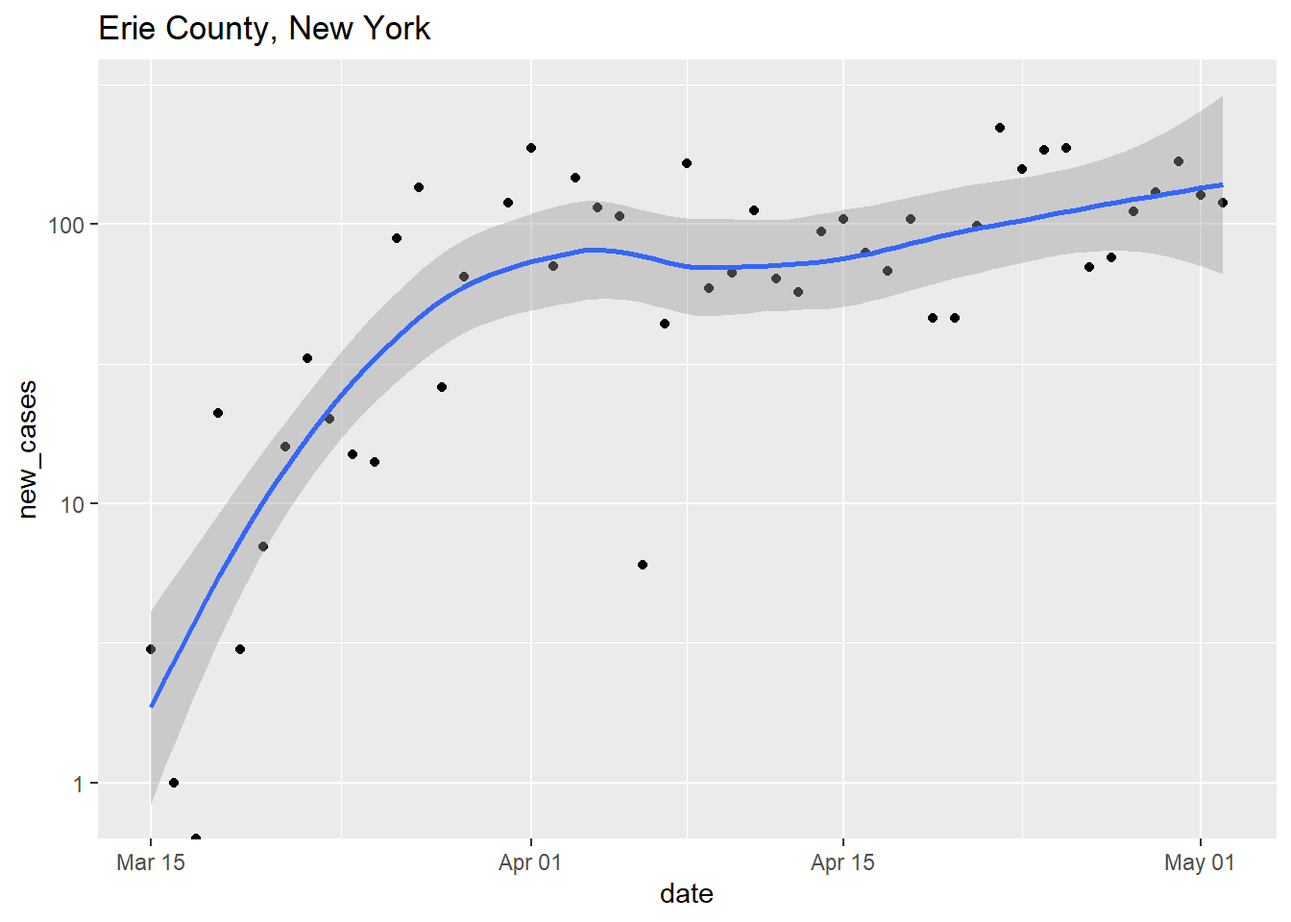
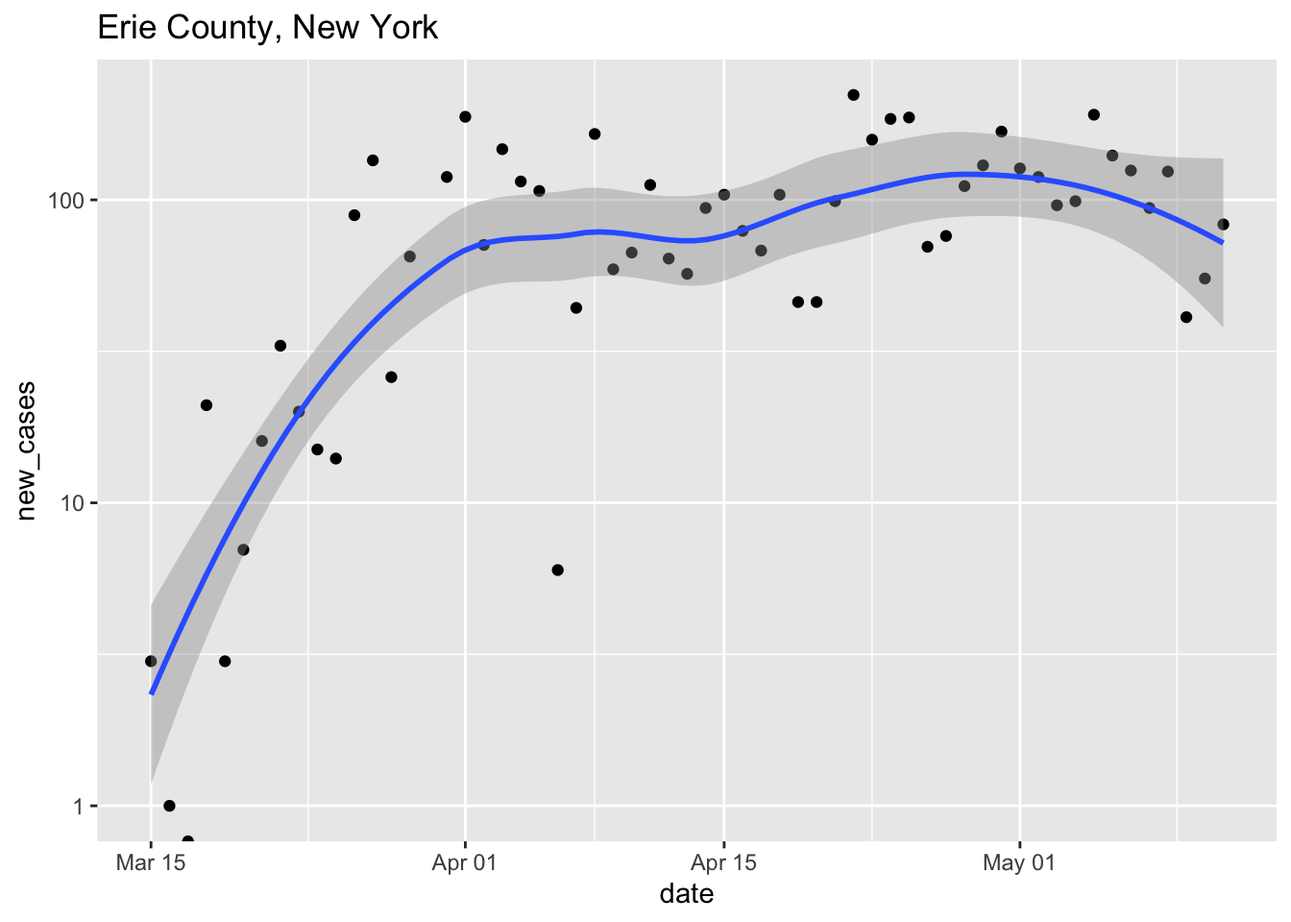
update build products

diff --git a/docs/index.html b/docs/index.html
@@ -5,30 +5,30 @@
   <meta charset="utf-8" />
   <meta http-equiv="X-UA-Compatible" content="IE=edge" />
   <title>40 Days and 40 Nights</title>
-  <meta name="description" content="<p>An ad hoc course to learn R for bioinformatics, using the
-COVID-19 epidemic as an excuse.</p>" />
+  <meta name="description" content="An ad hoc course to learn R for bioinformatics, using the
+COVID-19 epidemic as an excuse." />
   <meta name="generator" content="bookdown 0.18 and GitBook 2.6.7" />
 
   <meta property="og:title" content="40 Days and 40 Nights" />
   <meta property="og:type" content="book" />
   
   
-  <meta property="og:description" content="<p>An ad hoc course to learn R for bioinformatics, using the
-COVID-19 epidemic as an excuse.</p>" />
+  <meta property="og:description" content="An ad hoc course to learn R for bioinformatics, using the
+COVID-19 epidemic as an excuse." />
   
 
   <meta name="twitter:card" content="summary" />
   <meta name="twitter:title" content="40 Days and 40 Nights" />
   
-  <meta name="twitter:description" content="<p>An ad hoc course to learn R for bioinformatics, using the
-COVID-19 epidemic as an excuse.</p>" />
+  <meta name="twitter:description" content="An ad hoc course to learn R for bioinformatics, using the
+COVID-19 epidemic as an excuse." />
   
 
 <meta name="author" content="Martin Morgan" />
 <meta name="author" content="L. Shawn Matott" />
 
 
-<meta name="date" content="2020-05-04" />
+<meta name="date" content="2020-05-14" />
 
   <meta name="viewport" content="width=device-width, initial-scale=1" />
   <meta name="apple-mobile-web-app-capable" content="yes" />
@@ -73,7 +73,7 @@ a.sourceLine { text-indent: -1em; padding-left: 1em; }
 pre.numberSource a.sourceLine
   { position: relative; left: -4em; }
 pre.numberSource a.sourceLine::before
-  { content: attr(title);
+  { content: attr(data-line-number);
     position: relative; left: -1em; text-align: right; vertical-align: baseline;
     border: none; pointer-events: all; display: inline-block;
     -webkit-touch-callout: none; -webkit-user-select: none;
@@ -193,10 +193,10 @@ code span.wa { color: #60a0b0; font-weight: bold; font-style: italic; } /* Warni
 <li class="chapter" data-level="" data-path="three.html"><a href="three.html#packages-20-minutes"><i class="fa fa-check"></i>Packages (20 minutes)</a></li>
 <li class="chapter" data-level="" data-path="three.html"><a href="three.html#the-tidyverse-of-packages-20-minutes"><i class="fa fa-check"></i>The ‘tidyverse’ of packages (20 minutes)</a></li>
 </ul></li>
-<li class="chapter" data-level="3.2" data-path="three.html"><a href="three.html#day-16-key-tidyverse-packages-readr-and-dplyr"><i class="fa fa-check"></i><b>3.2</b> Day 16 Key tidyverse packages: <span>readr</span> and <span>dplyr</span></a></li>
-<li class="chapter" data-level="3.3" data-path="three.html"><a href="three.html#day-17-visualization-with-ggplot2"><i class="fa fa-check"></i><b>3.3</b> Day 17 Visualization with <span>ggplot2</span></a><ul>
+<li class="chapter" data-level="3.2" data-path="three.html"><a href="three.html#day-16-key-tidyverse-packages-readr-and-dplyr"><i class="fa fa-check"></i><b>3.2</b> Day 16 Key tidyverse packages: [readr][] and [dplyr][]</a></li>
+<li class="chapter" data-level="3.3" data-path="three.html"><a href="three.html#day-17-visualization-with-ggplot2"><i class="fa fa-check"></i><b>3.3</b> Day 17 Visualization with [ggplot2][]</a><ul>
 <li class="chapter" data-level="" data-path="three.html"><a href="three.html#setup"><i class="fa fa-check"></i>Setup</a></li>
-<li><a href="three.html#ggplot2-essentials"><span>ggplot2</span> essentials</a></li>
+<li class="chapter" data-level="" data-path="three.html"><a href="three.html#ggplot2-essentials"><i class="fa fa-check"></i>[ggplot2][] essentials</a></li>
 <li class="chapter" data-level="" data-path="three.html"><a href="three.html#covid-19-in-erie-county"><i class="fa fa-check"></i>COVID-19 in Erie county</a></li>
 <li class="chapter" data-level="" data-path="three.html"><a href="three.html#covid-19-in-new-york-state"><i class="fa fa-check"></i>COVID-19 in New York State</a></li>
 <li class="chapter" data-level="" data-path="three.html"><a href="three.html#covid-19-nationally"><i class="fa fa-check"></i>COVID-19 nationally</a></li>
@@ -208,7 +208,7 @@ code span.wa { color: #60a0b0; font-weight: bold; font-style: italic; } /* Warni
 <li class="chapter" data-level="3.5.3" data-path="three.html"><a href="three.html#weekend-activities-15-minutes"><i class="fa fa-check"></i><b>3.5.3</b> Weekend activities (15 minutes)</a></li>
 </ul></li>
 <li class="chapter" data-level="3.6" data-path="three.html"><a href="three.html#day-20-exploring-the-course-of-pandemic-in-different-regions"><i class="fa fa-check"></i><b>3.6</b> Day 20 Exploring the course of pandemic in different regions</a></li>
-<li class="chapter" data-level="3.7" data-path="three.html"><a href="three.html#day-21"><i class="fa fa-check"></i><b>3.7</b> Day 21</a></li>
+<li class="chapter" data-level="3.7" data-path="three.html"><a href="three.html#day-21-critical-evaluation"><i class="fa fa-check"></i><b>3.7</b> Day 21 Critical evaluation</a></li>
 </ul></li>
 <li class="chapter" data-level="4" data-path="four.html"><a href="four.html"><i class="fa fa-check"></i><b>4</b> Machine learning</a><ul>
 <li class="chapter" data-level="4.1" data-path="four.html"><a href="four.html#day-22-monday-zoom-check-in"><i class="fa fa-check"></i><b>4.1</b> Day 22 (Monday) Zoom check-in</a><ul>
@@ -230,23 +230,46 @@ code span.wa { color: #60a0b0; font-weight: bold; font-style: italic; } /* Warni
 <li class="chapter" data-level="4.7" data-path="four.html"><a href="four.html#day-28"><i class="fa fa-check"></i><b>4.7</b> Day 28</a></li>
 </ul></li>
 <li class="chapter" data-level="5" data-path="five.html"><a href="five.html"><i class="fa fa-check"></i><b>5</b> Bioinformatics with <span>Bioconductor</span></a><ul>
-<li class="chapter" data-level="5.1" data-path="five.html"><a href="five.html#day-29-monday-zoom-check-in"><i class="fa fa-check"></i><b>5.1</b> Day 29 (Monday) Zoom check-in</a></li>
-<li class="chapter" data-level="5.2" data-path="five.html"><a href="five.html#day-30"><i class="fa fa-check"></i><b>5.2</b> Day 30</a></li>
-<li class="chapter" data-level="5.3" data-path="five.html"><a href="five.html#day-31"><i class="fa fa-check"></i><b>5.3</b> Day 31</a></li>
-<li class="chapter" data-level="5.4" data-path="five.html"><a href="five.html#day-32"><i class="fa fa-check"></i><b>5.4</b> Day 32</a></li>
+<li class="chapter" data-level="5.1" data-path="five.html"><a href="five.html#day-29-monday-zoom-check-in"><i class="fa fa-check"></i><b>5.1</b> Day 29 (Monday) Zoom check-in</a><ul>
+<li class="chapter" data-level="5.1.1" data-path="five.html"><a href="five.html#review-and-trouble-shoot"><i class="fa fa-check"></i><b>5.1.1</b> Review and trouble shoot</a></li>
+<li class="chapter" data-level="5.1.2" data-path="five.html"><a href="five.html#bioconductor-packages-and-biological-data"><i class="fa fa-check"></i><b>5.1.2</b> <span>Bioconductor</span>, packages, and biological data</a></li>
+<li class="chapter" data-level="5.1.3" data-path="five.html"><a href="five.html#this-week-sars-cov-2-sequence-and-human-tissue-specific-gene-expression-data"><i class="fa fa-check"></i><b>5.1.3</b> This week: SARS-CoV-2 sequence and human tissue-specific gene expression data</a></li>
+</ul></li>
+<li class="chapter" data-level="5.2" data-path="five.html"><a href="five.html#day-30-dna-sequences-and-annotations"><i class="fa fa-check"></i><b>5.2</b> Day 30 DNA sequences and annotations</a><ul>
+<li class="chapter" data-level="5.2.1" data-path="five.html"><a href="five.html#setup-1"><i class="fa fa-check"></i><b>5.2.1</b> Setup</a></li>
+<li class="chapter" data-level="5.2.2" data-path="five.html"><a href="five.html#representing-dna-sequences"><i class="fa fa-check"></i><b>5.2.2</b> Representing DNA sequences</a></li>
+<li class="chapter" data-level="5.2.3" data-path="five.html"><a href="five.html#working-with-genbankrecord-objects"><i class="fa fa-check"></i><b>5.2.3</b> Working with <code>GenBankRecord</code> objects</a></li>
+<li class="chapter" data-level="5.2.4" data-path="five.html"><a href="five.html#genomic-ranges-and-dna-sequences"><i class="fa fa-check"></i><b>5.2.4</b> Genomic ranges and DNA sequences</a></li>
+</ul></li>
+<li class="chapter" data-level="5.3" data-path="five.html"><a href="five.html#day-31-sequence-alignment-and-visualization"><i class="fa fa-check"></i><b>5.3</b> Day 31 Sequence alignment and visualization</a><ul>
+<li class="chapter" data-level="5.3.1" data-path="five.html"><a href="five.html#s-gene-exploration"><i class="fa fa-check"></i><b>5.3.1</b> ‘S’ gene exploration</a></li>
+<li class="chapter" data-level="5.3.2" data-path="five.html"><a href="five.html#sequence-alignment"><i class="fa fa-check"></i><b>5.3.2</b> Sequence alignment</a></li>
+<li class="chapter" data-level="5.3.3" data-path="five.html"><a href="five.html#phylogenetic-tree-visualization"><i class="fa fa-check"></i><b>5.3.3</b> Phylogenetic tree visualization</a></li>
+</ul></li>
+<li class="chapter" data-level="5.4" data-path="five.html"><a href="five.html#day-32-single-cell-expression-data"><i class="fa fa-check"></i><b>5.4</b> Day 32 Single-cell expression data</a><ul>
+<li class="chapter" data-level="5.4.1" data-path="five.html"><a href="five.html#setup-2"><i class="fa fa-check"></i><b>5.4.1</b> Setup</a></li>
+<li class="chapter" data-level="5.4.2" data-path="five.html"><a href="five.html#data-input-and-exploration"><i class="fa fa-check"></i><b>5.4.2</b> Data input and exploration</a></li>
+<li class="chapter" data-level="5.4.3" data-path="five.html"><a href="five.html#coordinating-cell-and-expression-data"><i class="fa fa-check"></i><b>5.4.3</b> Coordinating cell and expression data</a></li>
+</ul></li>
 <li class="chapter" data-level="5.5" data-path="five.html"><a href="five.html#day-33-friday-zoom-check-in"><i class="fa fa-check"></i><b>5.5</b> Day 33 (Friday) Zoom check-in</a><ul>
 <li class="chapter" data-level="5.5.1" data-path="five.html"><a href="five.html#review-and-trouble-shoot-25-minutes-1"><i class="fa fa-check"></i><b>5.5.1</b> Review and trouble shoot (25 minutes)</a></li>
 <li class="chapter" data-level="5.5.2" data-path="five.html"><a href="five.html#next-week-25-minutes"><i class="fa fa-check"></i><b>5.5.2</b> Next week (25 minutes)</a></li>
 </ul></li>
-<li class="chapter" data-level="5.6" data-path="five.html"><a href="five.html#day-34"><i class="fa fa-check"></i><b>5.6</b> Day 34</a></li>
-<li class="chapter" data-level="5.7" data-path="five.html"><a href="five.html#day-35"><i class="fa fa-check"></i><b>5.7</b> Day 35</a></li>
+<li class="chapter" data-level="5.6" data-path="five.html"><a href="five.html#day-34-revising-tree-visualization"><i class="fa fa-check"></i><b>5.6</b> Day 34 Revising tree visualization</a></li>
+<li class="chapter" data-level="5.7" data-path="five.html"><a href="five.html#day-35-exploring-bioconductor"><i class="fa fa-check"></i><b>5.7</b> Day 35 Exploring <span>Bioconductor</span></a></li>
 </ul></li>
 <li class="chapter" data-level="6" data-path="six.html"><a href="six.html"><i class="fa fa-check"></i><b>6</b> Collaboration</a><ul>
-<li class="chapter" data-level="6.1" data-path="six.html"><a href="six.html#days-monday-zoom-check-in"><i class="fa fa-check"></i><b>6.1</b> 5 Days (Monday) Zoom check-in</a></li>
-<li class="chapter" data-level="6.2" data-path="six.html"><a href="six.html#days"><i class="fa fa-check"></i><b>6.2</b> 4 Days</a></li>
-<li class="chapter" data-level="6.3" data-path="six.html"><a href="six.html#days-1"><i class="fa fa-check"></i><b>6.3</b> 3 Days</a></li>
-<li class="chapter" data-level="6.4" data-path="six.html"><a href="six.html#days-2"><i class="fa fa-check"></i><b>6.4</b> 2 Days</a></li>
-<li class="chapter" data-level="6.5" data-path="six.html"><a href="six.html#today-friday-zoom-check-in"><i class="fa fa-check"></i><b>6.5</b> Today! (Friday) Zoom check-in</a></li>
+<li class="chapter" data-level="6.1" data-path="six.html"><a href="six.html#days-monday-zoom-check-in"><i class="fa fa-check"></i><b>6.1</b> 5 Days (Monday) Zoom check-in</a><ul>
+<li class="chapter" data-level="6.1.1" data-path="six.html"><a href="six.html#weekend-review-5-minutes"><i class="fa fa-check"></i><b>6.1.1</b> Weekend review (5 minutes)</a></li>
+<li class="chapter" data-level="6.1.2" data-path="six.html"><a href="six.html#vignettes-25-minutes-shawn"><i class="fa fa-check"></i><b>6.1.2</b> Vignettes (25 minutes; Shawn)</a></li>
+</ul></li>
+<li class="chapter" data-level="6.2" data-path="six.html"><a href="six.html#muliple-regression-plots"><i class="fa fa-check"></i><b>6.2</b> Muliple Regression Plots</a><ul>
+<li class="chapter" data-level="6.2.1" data-path="six.html"><a href="six.html#writing-and-documenting-r-functions-25-minutes"><i class="fa fa-check"></i><b>6.2.1</b> Writing and documenting R functions (25 minutes)</a></li>
+</ul></li>
+<li class="chapter" data-level="6.3" data-path="six.html"><a href="six.html#days-write-a-vignette"><i class="fa fa-check"></i><b>6.3</b> 4 Days Write a vignette!</a></li>
+<li class="chapter" data-level="6.4" data-path="six.html"><a href="six.html#days-create-documented-reusable-functions"><i class="fa fa-check"></i><b>6.4</b> 3 Days Create documented, reusable functions!</a></li>
+<li class="chapter" data-level="6.5" data-path="six.html"><a href="six.html#days-share-your-work-as-a-package"><i class="fa fa-check"></i><b>6.5</b> 2 Days Share your work as a package!</a></li>
+<li class="chapter" data-level="6.6" data-path="six.html"><a href="six.html#today-friday-zoom-check-in"><i class="fa fa-check"></i><b>6.6</b> Today! (Friday) Zoom check-in</a></li>
 </ul></li>
 <li class="chapter" data-level="" data-path="frequently-asked-questions.html"><a href="frequently-asked-questions.html"><i class="fa fa-check"></i>Frequently asked questions</a></li>
 <li class="divider"></li>
@@ -273,7 +296,7 @@ code span.wa { color: #60a0b0; font-weight: bold; font-style: italic; } /* Warni
 <h1 class="title">40 Days and 40 Nights</h1>
 <p class="author"><em>Martin Morgan<a href="#fn1" class="footnote-ref" id="fnref1"><sup>1</sup></a></em></p>
 <p class="author"><em>L. Shawn Matott<a href="#fn2" class="footnote-ref" id="fnref2"><sup>2</sup></a></em></p>
-<p class="date"><em>2020-05-04</em></p>
+<p class="date"><em>2020-05-14</em></p>
 </div>
 <div id="motivation" class="section level1 unnumbered">
 <h1>Motivation</h1>
@@ -290,31 +313,32 @@ code span.wa { color: #60a0b0; font-weight: bold; font-style: italic; } /* Warni
 <p>We haven’t thought this through much, but roughly we might cover:</p>
 <ul>
 <li><p>Week <a href="one.html#one">1</a>: We’ll start with the basics of installing and using R. We’ll set up <em>R</em> and <em>RStudio</em> on your local computer, or if that doesn’t work use a cloud-based RStudio. We’ll learn the basics of <em>R</em> – numeric, character, logical, and other vectors; variables; and slightly more complicated representations of ‘factors’ and dates. We’ll also use <em>RStudio</em> to write a script that allows us to easily re-create an analysis, illustrating the power concept of <em>reproducible research</em>.</p>
-<div class="sourceCode" id="cb1"><pre class="sourceCode r"><code class="sourceCode r"><a class="sourceLine" id="cb1-1" title="1">activity &lt;-<span class="st"> </span><span class="kw">c</span>(<span class="st">&quot;check e-mail&quot;</span>, <span class="st">&quot;breakfast&quot;</span>, <span class="st">&quot;conference call&quot;</span>, <span class="st">&quot;webinar&quot;</span>, <span class="st">&quot;walk&quot;</span>)</a>
-<a class="sourceLine" id="cb1-2" title="2">minutes_per_activity &lt;-<span class="st"> </span><span class="kw">c</span>(<span class="dv">20</span>, <span class="dv">30</span>, <span class="dv">60</span>, <span class="dv">60</span>, <span class="dv">60</span>)</a>
-<a class="sourceLine" id="cb1-3" title="3">minutes_per_activity <span class="op">&gt;=</span><span class="st"> </span><span class="dv">60</span></a>
-<a class="sourceLine" id="cb1-4" title="4"><span class="co">## [1] FALSE FALSE  TRUE  TRUE  TRUE</span></a>
-<a class="sourceLine" id="cb1-5" title="5">activity[minutes_per_activity <span class="op">&gt;=</span><span class="st"> </span><span class="dv">60</span>]</a>
-<a class="sourceLine" id="cb1-6" title="6"><span class="co">## [1] &quot;conference call&quot; &quot;webinar&quot;         &quot;walk&quot;</span></a></code></pre></div></li>
+<div class="sourceCode" id="cb1"><pre class="sourceCode r"><code class="sourceCode r"><a class="sourceLine" id="cb1-1" data-line-number="1">activity &lt;-<span class="st"> </span><span class="kw">c</span>(<span class="st">&quot;check e-mail&quot;</span>, <span class="st">&quot;breakfast&quot;</span>, <span class="st">&quot;conference call&quot;</span>, <span class="st">&quot;webinar&quot;</span>, <span class="st">&quot;walk&quot;</span>)</a>
+<a class="sourceLine" id="cb1-2" data-line-number="2">minutes_per_activity &lt;-<span class="st"> </span><span class="kw">c</span>(<span class="dv">20</span>, <span class="dv">30</span>, <span class="dv">60</span>, <span class="dv">60</span>, <span class="dv">60</span>)</a>
+<a class="sourceLine" id="cb1-3" data-line-number="3">minutes_per_activity <span class="op">&gt;=</span><span class="st"> </span><span class="dv">60</span></a>
+<a class="sourceLine" id="cb1-4" data-line-number="4"><span class="co">## [1] FALSE FALSE  TRUE  TRUE  TRUE</span></a>
+<a class="sourceLine" id="cb1-5" data-line-number="5">activity[minutes_per_activity <span class="op">&gt;=</span><span class="st"> </span><span class="dv">60</span>]</a>
+<a class="sourceLine" id="cb1-6" data-line-number="6"><span class="co">## [1] &quot;conference call&quot; &quot;webinar&quot;         &quot;walk&quot;</span></a></code></pre></div></li>
 <li><p>Week <a href="two.html#two">2</a>: The <code>data.frame</code>. This week is all about <em>R</em>’s <code>data.frame</code>, a versatile way of representing and manipulating a table (like an Excel spreadsheet) of data. We’ll learn how to create, write, and read a <code>data.frame</code>; how to go from data in a spreadsheet in Excel to a <code>data.frame</code> in <em>R</em>; and how to perform simple manipulations on a <code>data.frame</code>, like creating a subset of data, summarizing values in a column, and summarizing values in one column based on a grouping variable in another column.</p>
-<div class="sourceCode" id="cb2"><pre class="sourceCode r"><code class="sourceCode r"><a class="sourceLine" id="cb2-1" title="1">url =<span class="st"> &quot;https://raw.githubusercontent.com/nytimes/covid-19-data/master/us-counties.csv&quot;</span></a>
-<a class="sourceLine" id="cb2-2" title="2">cases &lt;-<span class="st"> </span><span class="kw">read.csv</span>(url)</a>
-<a class="sourceLine" id="cb2-3" title="3">erie &lt;-<span class="st"> </span><span class="kw">subset</span>(cases, county <span class="op">==</span><span class="st"> &quot;Erie&quot;</span> <span class="op">&amp;</span><span class="st"> </span>state <span class="op">==</span><span class="st"> &quot;New York&quot;</span>)</a>
-<a class="sourceLine" id="cb2-4" title="4"><span class="kw">tail</span>(erie)</a>
-<a class="sourceLine" id="cb2-5" title="5"><span class="co">##              date county    state  fips cases deaths</span></a>
-<a class="sourceLine" id="cb2-6" title="6"><span class="co">## 97081  2020-04-28   Erie New York 36029  3089    216</span></a>
-<a class="sourceLine" id="cb2-7" title="7"><span class="co">## 99926  2020-04-29   Erie New York 36029  3196    220</span></a>
-<a class="sourceLine" id="cb2-8" title="8"><span class="co">## 102778 2020-04-30   Erie New York 36029  3319    227</span></a>
-<a class="sourceLine" id="cb2-9" title="9"><span class="co">## 105640 2020-05-01   Erie New York 36029  3481    233</span></a>
-<a class="sourceLine" id="cb2-10" title="10"><span class="co">## 108508 2020-05-02   Erie New York 36029  3598    243</span></a>
-<a class="sourceLine" id="cb2-11" title="11"><span class="co">## 111382 2020-05-03   Erie New York 36029  3710    250</span></a></code></pre></div></li>
+<div class="sourceCode" id="cb2"><pre class="sourceCode r"><code class="sourceCode r"><a class="sourceLine" id="cb2-1" data-line-number="1">url =<span class="st"> &quot;https://raw.githubusercontent.com/nytimes/covid-19-data/master/us-counties.csv&quot;</span></a>
+<a class="sourceLine" id="cb2-2" data-line-number="2">cases &lt;-<span class="st"> </span><span class="kw">read.csv</span>(url)</a>
+<a class="sourceLine" id="cb2-3" data-line-number="3">erie &lt;-<span class="st"> </span><span class="kw">subset</span>(cases, county <span class="op">==</span><span class="st"> &quot;Erie&quot;</span> <span class="op">&amp;</span><span class="st"> </span>state <span class="op">==</span><span class="st"> &quot;New York&quot;</span>)</a>
+<a class="sourceLine" id="cb2-4" data-line-number="4"><span class="kw">tail</span>(erie)</a>
+<a class="sourceLine" id="cb2-5" data-line-number="5"><span class="co">##              date county    state  fips cases deaths</span></a>
+<a class="sourceLine" id="cb2-6" data-line-number="6"><span class="co">## 125627 2020-05-08   Erie New York 36029  4255    356</span></a>
+<a class="sourceLine" id="cb2-7" data-line-number="7"><span class="co">## 128538 2020-05-09   Erie New York 36029  4337    368</span></a>
+<a class="sourceLine" id="cb2-8" data-line-number="8"><span class="co">## 131449 2020-05-10   Erie New York 36029  4453    376</span></a>
+<a class="sourceLine" id="cb2-9" data-line-number="9"><span class="co">## 134361 2020-05-11   Erie New York 36029  4483    387</span></a>
+<a class="sourceLine" id="cb2-10" data-line-number="10"><span class="co">## 137274 2020-05-12   Erie New York 36029  4530    395</span></a>
+<a class="sourceLine" id="cb2-11" data-line-number="11"><span class="co">## 140193 2020-05-13   Erie New York 36029  4606    402</span></a></code></pre></div></li>
 <li><p>Week <a href="three.html#three">3</a>: Packages for extending <em>R</em>. A great strength of <em>R</em> is its extensibility through packages. We’ll learn about <a href="https://cran.r-project.org">CRAN</a>, and install and use the ‘tidyverse’ suite of packages. The tidyverse provides us with an alternative set of tools for working with tabular data, and We’ll use publicly available data to explore the spread of COVID-19 in the US. We’ll read, filter, mutate (change), and select subsets of the data, and group data by one column (e.g., ‘state’) to create summaries (e.g., cases per state). We’ll also start to explore data visualization, creating our first plots of the spread of COVID-19.</p>
-<div class="sourceCode" id="cb3"><pre class="sourceCode r"><code class="sourceCode r"><a class="sourceLine" id="cb3-1" title="1"><span class="kw">library</span>(dplyr)</a>
-<a class="sourceLine" id="cb3-2" title="2"><span class="kw">library</span>(ggplot2)</a>
-<a class="sourceLine" id="cb3-3" title="3"><span class="co">## ...additional commands</span></a></code></pre></div>
+<div class="sourceCode" id="cb3"><pre class="sourceCode r"><code class="sourceCode r"><a class="sourceLine" id="cb3-1" data-line-number="1"><span class="kw">library</span>(dplyr)</a>
+<a class="sourceLine" id="cb3-2" data-line-number="2"><span class="kw">library</span>(ggplot2)</a>
+<a class="sourceLine" id="cb3-3" data-line-number="3"><span class="co">## ...additional commands</span></a></code></pre></div>
 <p><img src="index_files/figure-html/unnamed-chunk-4-1.png" width="672" /></p></li>
 <li><p>Week <a href="four.html#four">4</a>: Machine learning. This week will develop basic machine learning models for exploring data.</p></li>
-<li><p>Week <a href="five.html#five">5</a>: Bioinformatic analysis with <a href="https://bioconductor.org">Bioconductor</a>. <em>Bioconductor</em> is a collection of more than 1800 <em>R</em> packages for the statistical analysis and comprehension of high-throughput genomic data. We’ll use <em>Bioconductor</em> to look at COVID-19 genome sequences, and to explore emerging genomic data relevant to the virus.</p></li>
+<li><p>Week <a href="five.html#five">5</a>: Bioinformatic analysis with <a href="https://bioconductor.org">Bioconductor</a>. <em>Bioconductor</em> is a collection of more than 1800 <em>R</em> packages for the statistical analysis and comprehension of high-throughput genomic data. We’ll use <em>Bioconductor</em> to look at COVID-19 genome sequences, and to explore emerging genomic data relevant to the virus.</p>
+<p><img src="images/05-SARS-CoV-2-phylogeny.png" width="48%" /><img src="images/05-ACE2.png" width="48%" /></p></li>
 <li><p>Week <a href="six.html#six">6</a>: COVID-19 has really shown the value of open data and collaboration. In the final week of our quarantine, we’ll explore collaboration; developing independent and group projects that synthesize the use of <em>R</em> to explore data. We’ll learn tools of collaboration including git and github, and develop ‘best practices’ for robust, reproducible research. We’ll learn about writing ‘markdown’ reports to share our project with others.</p></li>
 </ul>
 

diff --git a/docs/five.html b/docs/five.html
@@ -28,7 +28,7 @@ COVID-19 epidemic as an excuse." />
 <meta name="author" content="L. Shawn Matott" />
 
 
-<meta name="date" content="2020-05-01" />
+<meta name="date" content="2020-05-14" />
 
   <meta name="viewport" content="width=device-width, initial-scale=1" />
   <meta name="apple-mobile-web-app-capable" content="yes" />
@@ -212,20 +212,16 @@ code span.wa { color: #60a0b0; font-weight: bold; font-style: italic; } /* Warni
 </ul></li>
 <li class="chapter" data-level="4" data-path="four.html"><a href="four.html"><i class="fa fa-check"></i><b>4</b> Machine learning</a><ul>
 <li class="chapter" data-level="4.1" data-path="four.html"><a href="four.html#day-22-monday-zoom-check-in"><i class="fa fa-check"></i><b>4.1</b> Day 22 (Monday) Zoom check-in</a><ul>
-<li class="chapter" data-level="4.1.1" data-path="four.html"><a href="four.html#a-machine-learning-primer"><i class="fa fa-check"></i><b>4.1.1</b> A Machine Learning Primer</a></li>
-<li class="chapter" data-level="4.1.2" data-path="four.html"><a href="four.html#the-random-forest-algorithm"><i class="fa fa-check"></i><b>4.1.2</b> The Random Forest Algorithm</a></li>
-<li class="chapter" data-level="4.1.3" data-path="four.html"><a href="four.html#a-covid-19-dataset-for-machine-learning"><i class="fa fa-check"></i><b>4.1.3</b> A COVID-19 Dataset for Machine Learning</a></li>
+<li class="chapter" data-level="4.1.1" data-path="four.html"><a href="four.html#a-covid-19-dataset-for-machine-learning"><i class="fa fa-check"></i><b>4.1.1</b> A COVID-19 Dataset for Machine Learning</a></li>
+<li class="chapter" data-level="4.1.2" data-path="four.html"><a href="four.html#a-machine-learning-primer"><i class="fa fa-check"></i><b>4.1.2</b> A Machine Learning Primer</a></li>
+<li class="chapter" data-level="4.1.3" data-path="four.html"><a href="four.html#the-random-forest-algorithm"><i class="fa fa-check"></i><b>4.1.3</b> The Random Forest Algorithm</a></li>
 <li class="chapter" data-level="4.1.4" data-path="four.html"><a href="four.html#a-random-forest-example-using-covid-19-data"><i class="fa fa-check"></i><b>4.1.4</b> A Random Forest Example Using COVID-19 Data</a></li>
 </ul></li>
 <li class="chapter" data-level="4.2" data-path="four.html"><a href="four.html#day-23---support-vector-machines"><i class="fa fa-check"></i><b>4.2</b> Day 23 - Support Vector Machines</a><ul>
 <li class="chapter" data-level="4.2.1" data-path="four.html"><a href="four.html#an-svm-example-using-covid-19"><i class="fa fa-check"></i><b>4.2.1</b> An SVM Example using COVID-19</a></li>
 </ul></li>
 <li class="chapter" data-level="4.3" data-path="four.html"><a href="four.html#day-24---the-k-nearest-neighbors-algorithm"><i class="fa fa-check"></i><b>4.3</b> Day 24 - the <span class="math inline">\(k\)</span>-Nearest Neighbors Algorithm</a></li>
-<li class="chapter" data-level="4.4" data-path="four.html"><a href="four.html#day-25---artificial-neural-networks"><i class="fa fa-check"></i><b>4.4</b> Day 25 - Artificial Neural Networks</a><ul>
-<li class="chapter" data-level="4.4.1" data-path="four.html"><a href="four.html#introduction-to-artifical-neural-networks"><i class="fa fa-check"></i><b>4.4.1</b> Introduction to Artifical Neural Networks</a></li>
-<li class="chapter" data-level="4.4.2" data-path="four.html"><a href="four.html#keras-and-tensorflow"><i class="fa fa-check"></i><b>4.4.2</b> Keras and TensorFlow</a></li>
-<li class="chapter" data-level="4.4.3" data-path="four.html"><a href="four.html#applying-keras-and-tensorflow-to-the-covid-19-dataset"><i class="fa fa-check"></i><b>4.4.3</b> Applying Keras and TensorFlow to the COVID-19 Dataset</a></li>
-</ul></li>
+<li class="chapter" data-level="4.4" data-path="four.html"><a href="four.html#day-25---exploring-the-knn-algorithm"><i class="fa fa-check"></i><b>4.4</b> Day 25 - Exploring the KNN Algorithm</a></li>
 <li class="chapter" data-level="4.5" data-path="four.html"><a href="four.html#day-26-friday-zoom-check-in"><i class="fa fa-check"></i><b>4.5</b> Day 26 (Friday) Zoom check-in</a><ul>
 <li class="chapter" data-level="4.5.1" data-path="four.html"><a href="four.html#review-and-trouble-shoot-25-minutes"><i class="fa fa-check"></i><b>4.5.1</b> Review and trouble shoot (25 minutes)</a></li>
 <li class="chapter" data-level="4.5.2" data-path="four.html"><a href="four.html#this-weekend-25-minutes"><i class="fa fa-check"></i><b>4.5.2</b> This weekend (25 minutes)</a></li>
@@ -266,12 +262,14 @@ code span.wa { color: #60a0b0; font-weight: bold; font-style: italic; } /* Warni
 <li class="chapter" data-level="6.1" data-path="six.html"><a href="six.html#days-monday-zoom-check-in"><i class="fa fa-check"></i><b>6.1</b> 5 Days (Monday) Zoom check-in</a><ul>
 <li class="chapter" data-level="6.1.1" data-path="six.html"><a href="six.html#weekend-review-5-minutes"><i class="fa fa-check"></i><b>6.1.1</b> Weekend review (5 minutes)</a></li>
 <li class="chapter" data-level="6.1.2" data-path="six.html"><a href="six.html#vignettes-25-minutes-shawn"><i class="fa fa-check"></i><b>6.1.2</b> Vignettes (25 minutes; Shawn)</a></li>
-<li class="chapter" data-level="6.1.3" data-path="six.html"><a href="six.html#writing-and-documenting-r-functions-25-minutes"><i class="fa fa-check"></i><b>6.1.3</b> Writing and documenting R functions (25 minutes)</a></li>
 </ul></li>
-<li class="chapter" data-level="6.2" data-path="six.html"><a href="six.html#days-write-a-vignette"><i class="fa fa-check"></i><b>6.2</b> 4 Days Write a vignette!</a></li>
-<li class="chapter" data-level="6.3" data-path="six.html"><a href="six.html#days-create-documented-reusable-functions"><i class="fa fa-check"></i><b>6.3</b> 3 Days Create documented, reusable functions!</a></li>
-<li class="chapter" data-level="6.4" data-path="six.html"><a href="six.html#days-share-your-work-as-a-package"><i class="fa fa-check"></i><b>6.4</b> 2 Days Share your work as a package!</a></li>
-<li class="chapter" data-level="6.5" data-path="six.html"><a href="six.html#today-friday-zoom-check-in"><i class="fa fa-check"></i><b>6.5</b> Today! (Friday) Zoom check-in</a></li>
+<li class="chapter" data-level="6.2" data-path="six.html"><a href="six.html#muliple-regression-plots"><i class="fa fa-check"></i><b>6.2</b> Muliple Regression Plots</a><ul>
+<li class="chapter" data-level="6.2.1" data-path="six.html"><a href="six.html#writing-and-documenting-r-functions-25-minutes"><i class="fa fa-check"></i><b>6.2.1</b> Writing and documenting R functions (25 minutes)</a></li>
+</ul></li>
+<li class="chapter" data-level="6.3" data-path="six.html"><a href="six.html#days-write-a-vignette"><i class="fa fa-check"></i><b>6.3</b> 4 Days Write a vignette!</a></li>
+<li class="chapter" data-level="6.4" data-path="six.html"><a href="six.html#days-create-documented-reusable-functions"><i class="fa fa-check"></i><b>6.4</b> 3 Days Create documented, reusable functions!</a></li>
+<li class="chapter" data-level="6.5" data-path="six.html"><a href="six.html#days-share-your-work-as-a-package"><i class="fa fa-check"></i><b>6.5</b> 2 Days Share your work as a package!</a></li>
+<li class="chapter" data-level="6.6" data-path="six.html"><a href="six.html#today-friday-zoom-check-in"><i class="fa fa-check"></i><b>6.6</b> Today! (Friday) Zoom check-in</a></li>
 </ul></li>
 <li class="chapter" data-level="" data-path="frequently-asked-questions.html"><a href="frequently-asked-questions.html"><i class="fa fa-check"></i>Frequently asked questions</a></li>
 <li class="divider"></li>
@@ -1200,7 +1198,7 @@ code span.wa { color: #60a0b0; font-weight: bold; font-style: italic; } /* Warni
 <div class="sourceCode" id="cb53"><pre class="sourceCode r"><code class="sourceCode r"><a class="sourceLine" id="cb53-1" data-line-number="1">dendrogram &lt;-<span class="st"> </span><span class="kw">IdClusters</span>(dist, <span class="dt">method =</span> <span class="st">&quot;NJ&quot;</span>, <span class="dt">type =</span> <span class="st">&quot;dendrogram&quot;</span>)</a>
 <a class="sourceLine" id="cb53-2" data-line-number="2"><span class="co">## ================================================================================</span></a>
 <a class="sourceLine" id="cb53-3" data-line-number="3"><span class="co">## </span></a>
-<a class="sourceLine" id="cb53-4" data-line-number="4"><span class="co">## Time difference of 0.67 secs</span></a>
+<a class="sourceLine" id="cb53-4" data-line-number="4"><span class="co">## Time difference of 0.75 secs</span></a>
 <a class="sourceLine" id="cb53-5" data-line-number="5">dendrogram</a>
 <a class="sourceLine" id="cb53-6" data-line-number="6"><span class="co">## &#39;dendrogram&#39; with 2 branches and 343 members total, at height 0.009898669</span></a>
 <a class="sourceLine" id="cb53-7" data-line-number="7"><span class="kw">plot</span>(dendrogram, <span class="dt">leaflab =</span> <span class="st">&quot;none&quot;</span>)</a></code></pre></div>
@@ -1273,11 +1271,12 @@ code span.wa { color: #60a0b0; font-weight: bold; font-style: italic; } /* Warni
 <a class="sourceLine" id="cb57-5" data-line-number="5">            <span class="dt">label =</span> label</a>
 <a class="sourceLine" id="cb57-6" data-line-number="6">        ),</a>
 <a class="sourceLine" id="cb57-7" data-line-number="7">        <span class="dt">size =</span> <span class="dv">3</span></a>
-<a class="sourceLine" id="cb57-8" data-line-number="8">    )</a>
-<a class="sourceLine" id="cb57-9" data-line-number="9"><span class="co">## Warning: `data_frame()` is deprecated as of tibble 1.1.0.</span></a>
-<a class="sourceLine" id="cb57-10" data-line-number="10"><span class="co">## Please use `tibble()` instead.</span></a>
-<a class="sourceLine" id="cb57-11" data-line-number="11"><span class="co">## This warning is displayed once every 8 hours.</span></a>
-<a class="sourceLine" id="cb57-12" data-line-number="12"><span class="co">## Call `lifecycle::last_warnings()` to see where this warning was generated.</span></a></code></pre></div>
+<a class="sourceLine" id="cb57-8" data-line-number="8">    ) <span class="op">+</span></a>
+<a class="sourceLine" id="cb57-9" data-line-number="9"><span class="st">    </span>ggplot2<span class="op">::</span><span class="kw">ggtitle</span>(<span class="st">&quot;SARS-CoV-2 S-locus phylogeny; genbank, 10 May 2020&quot;</span>)</a>
+<a class="sourceLine" id="cb57-10" data-line-number="10"><span class="co">## Warning: `data_frame()` is deprecated as of tibble 1.1.0.</span></a>
+<a class="sourceLine" id="cb57-11" data-line-number="11"><span class="co">## Please use `tibble()` instead.</span></a>
+<a class="sourceLine" id="cb57-12" data-line-number="12"><span class="co">## This warning is displayed once every 8 hours.</span></a>
+<a class="sourceLine" id="cb57-13" data-line-number="13"><span class="co">## Call `lifecycle::last_warnings()` to see where this warning was generated.</span></a></code></pre></div>
 <p><img src="05-Bioinformatics_files/figure-html/unnamed-chunk-60-1.png" width="672" /></p>
 <p>Color sequences by region</p>
 <ul>
